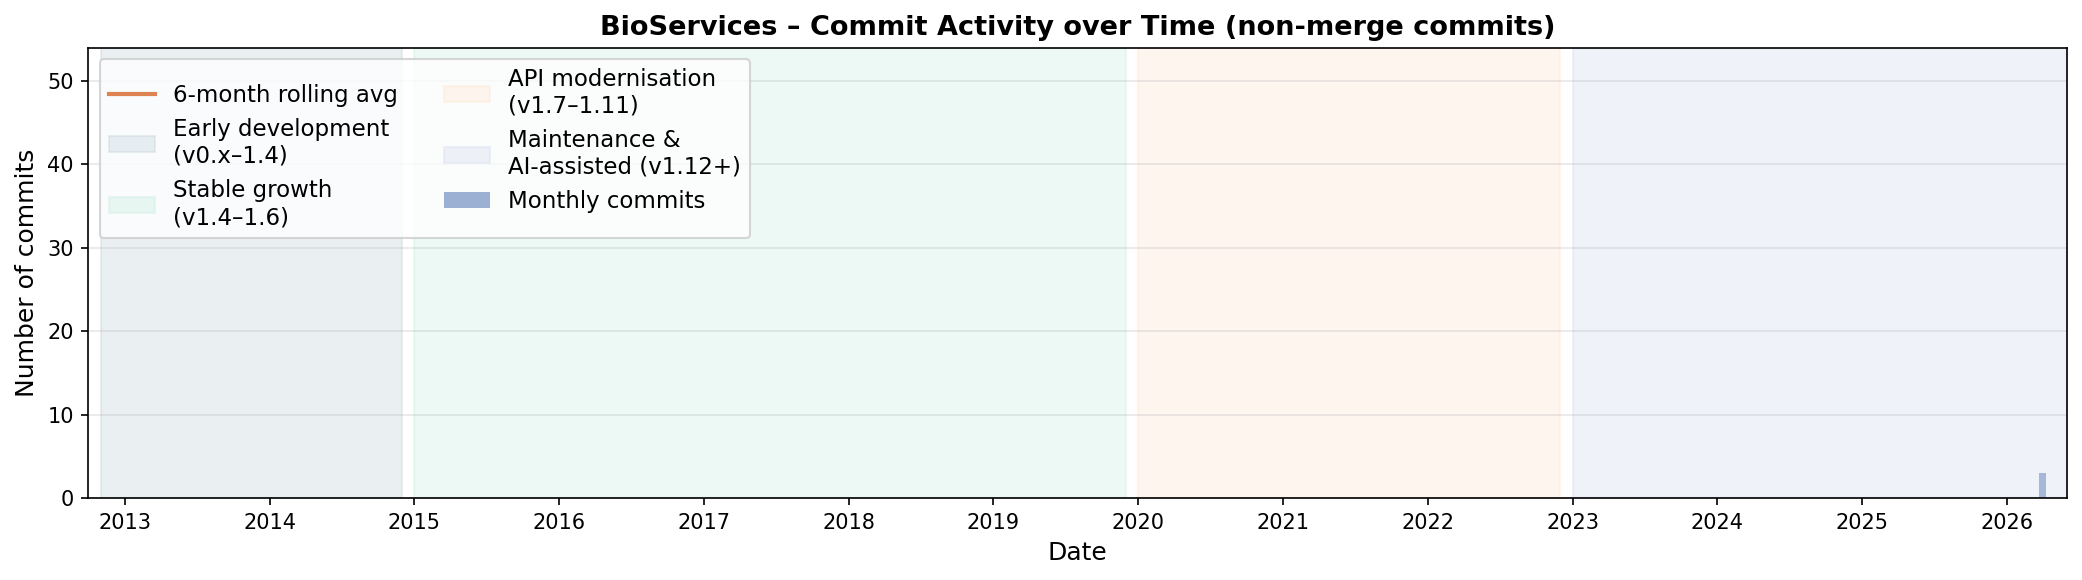
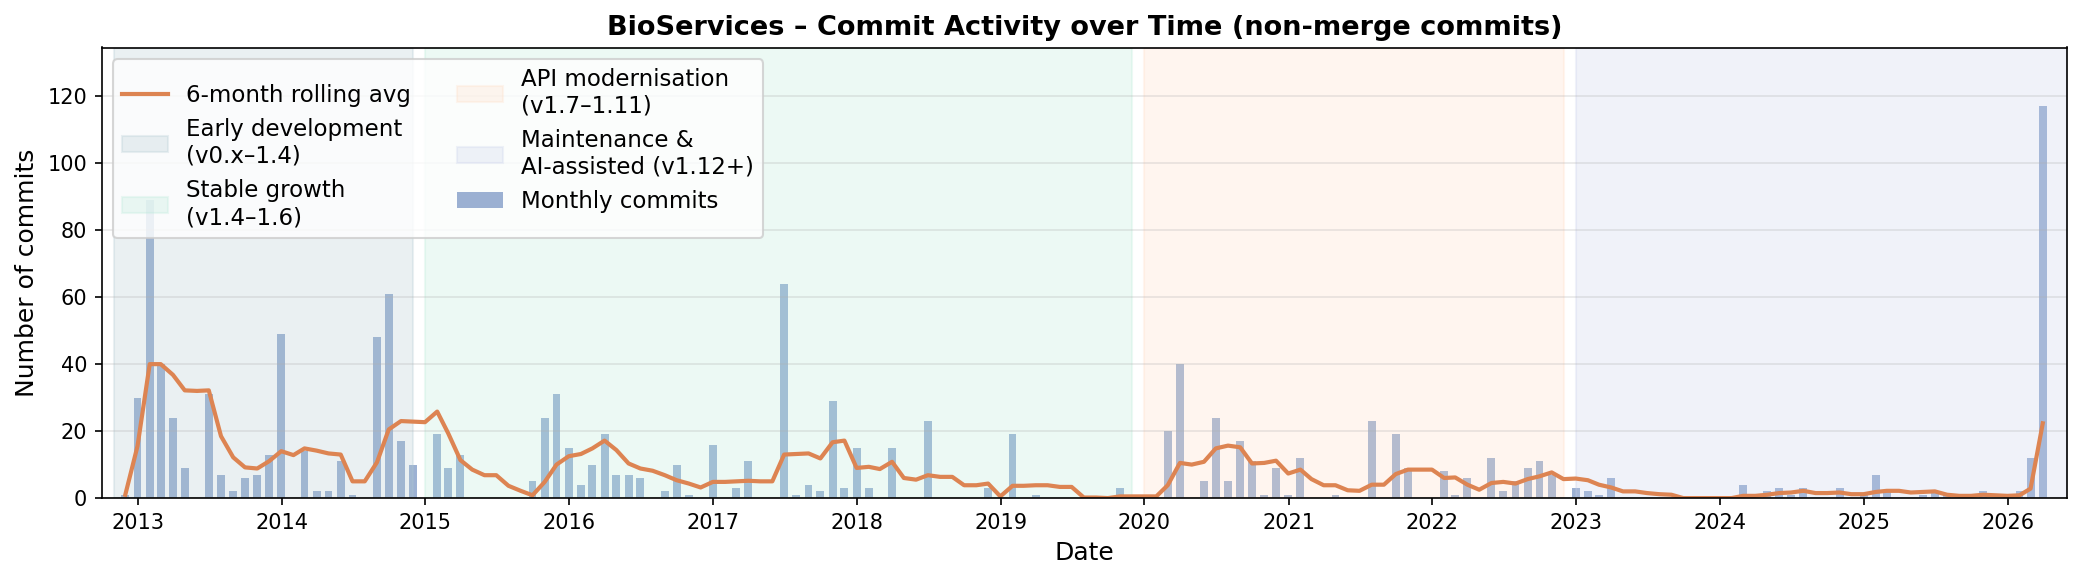
Fix history plots: restore commit bars, fix codebase xlim, capitalize service names, legend lower-left

diff --git a/doc/history/generate_history_plots.py b/doc/history/generate_history_plots.py
@@ -81,6 +81,10 @@ def plot_commits_over_time() -> None:
         [line.strip()[:10] for line in raw.splitlines() if line.strip()],
         errors="coerce",
     ).dropna()
+    if len(dates) == 0:
+        print("  [warn] no valid dates in git log – skipping commits_over_time")
+        return
+
     series = (
         pd.Series(1, index=dates)
         .resample("ME")
@@ -89,39 +93,11 @@ def plot_commits_over_time() -> None:
     )
     rolling = series.rolling(6, min_periods=1).mean()
 
-    # Cap y-axis at the 97th percentile so that a single large spike (e.g. an
-    # AI-assisted burst) does not compress all other activity into a flat
-    # baseline.  Bars that exceed the cap are drawn with hatching and annotated.
-    positive_vals = series.values[series.values > 0]
-    if len(positive_vals) == 0:
-        print("  [warn] no positive commit counts – skipping commits_over_time")
-        return
-    cap = float(np.percentile(positive_vals, 97)) * 1.3
-    cap = max(cap, 50)   # never cap below 50
-    ymax = cap * 1.08
+    ymax = series.max() * 1.15
 
     fig, ax = plt.subplots(figsize=(14, 4))
-
-    # Draw normal bars; clip overflowing bars and annotate them
-    bar_vals = series.values.copy()
-    overflow = bar_vals > cap
-    bar_vals_clipped = np.where(overflow, cap, bar_vals)
-
-    ax.bar(series.index, bar_vals_clipped, width=20, color="#4C72B0",
+    ax.bar(series.index, series.values, width=20, color="#4C72B0",
            alpha=0.55, label="Monthly commits")
-
-    # Hatched top-cap pattern + annotation for overflow bars
-    for idx in np.where(overflow)[0]:
-        ax.bar(series.index[idx], cap, width=20, color="#4C72B0",
-               alpha=0.75, hatch="////", edgecolor="#4C72B0")
-        ax.annotate(
-            f"{int(series.values[idx])}",
-            xy=(series.index[idx], cap),
-            xytext=(0, 4), textcoords="offset points",
-            ha="center", va="bottom", fontsize=8, color="#333",
-            fontweight="bold",
-        )
-
     ax.plot(rolling.index, rolling.values, color="#DD8452",
             linewidth=2, label="6-month rolling avg")
 
@@ -281,12 +257,9 @@ def plot_services_timeline() -> None:
     services = sorted(_SERVICES, key=lambda x: (x[1], x[2]))
     categories = sorted(set(s[1] for s in services))
 
-    # Extra bottom margin for the legend
+    # Extra bottom margin is no longer needed — legend is inside the axes
     fig_height = max(8, len(services) * 0.36 + 1.5)
     fig, ax = plt.subplots(figsize=(14, fig_height))
-
-    # Reserve bottom space for the legend
-    fig.subplots_adjust(bottom=0.18)
 
     ARROW_EXTRA = 0.55   # how far beyond END_YEAR the arrow tip extends
     BAR_END     = END_YEAR + 0.2  # where active bars visually stop (arrow starts)
@@ -321,7 +294,7 @@ def plot_services_timeline() -> None:
             )
 
         yticks.append(i)
-        ylabels.append(name.replace(".py", ""))
+        ylabels.append(name.replace(".py", "").capitalize())
 
     ax.set_yticks(yticks)
     ax.set_yticklabels(ylabels, fontsize=9.5)
@@ -334,15 +307,14 @@ def plot_services_timeline() -> None:
     ax.grid(axis="x", alpha=0.3)
     ax.invert_yaxis()
 
-    # Legend for categories — 4 columns, larger font, placed below the chart
+    # Legend for categories — 4 columns, larger font, placed inside lower-left
     legend_patches = [
         mpatches.Patch(color=_CATEGORY_COLORS[c], label=c, alpha=0.85)
         for c in categories if c in _CATEGORY_COLORS
     ]
     ax.legend(
         handles=legend_patches,
-        loc="upper center",
-        bbox_to_anchor=(0.5, -0.10),
+        loc="lower left",
         fontsize=10,
         ncol=4,
         title="Category",
@@ -554,6 +526,10 @@ def plot_codebase_growth() -> None:
     # Shared x-axis formatting (applied to bottom axis which owns the ticks)
     ax_bot.xaxis.set_major_locator(mdates.YearLocator())
     ax_bot.xaxis.set_major_formatter(mdates.DateFormatter("%Y"))
+    # Ensure the x-axis spans the full project history
+    x_start = df["date"].min() - pd.DateOffset(months=6)
+    x_end   = df["date"].max() + pd.DateOffset(months=6)
+    ax_bot.set_xlim(x_start, x_end)
 
     # Y-axis labels
     ax_top.set_ylabel("Python lines of code", fontsize=11)
